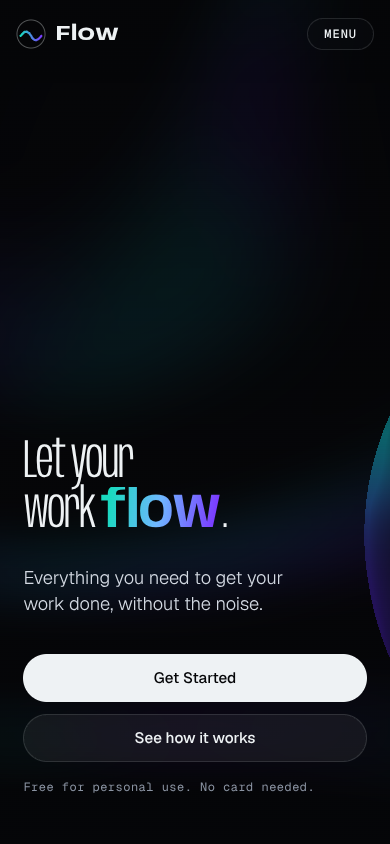
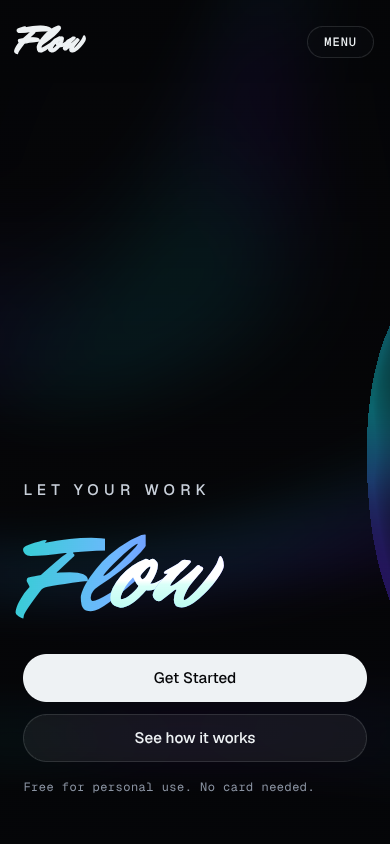
Pair tracked capitals with a large script name in the headline
After rendering six pairings, the headline is now "LET YOUR WORK" in small,
widely tracked Geist capitals over "Flow" set large in the logo's brush
script, which keeps the gradient and the pour. The gap under the capitals
scales with the script's size, since its ascenders rise about a quarter of
an em above the line; a fixed gap let the F and l collide with the caps.
Short landscape screens size the name by viewport height.

The process doc records the exploration with the six options.

Claude-Session: https://claude.ai/code/session_01Jf9pttvRY5HTnhp8tYBwzY

diff --git a/src/components/FlowHero.css b/src/components/FlowHero.css
@@ -181,16 +181,30 @@ summary:focus-visible {
   padding: 48px clamp(16px, 6vw, 96px);
 }
 
-/* "Let Your Work" is a light, tightly set sans, quiet and even, so the one
-   brush-script word, "Flow", in the logo's hand, carries all the expression.
-   The same pairing as the page: plain type everywhere, script for the name. */
+/* a two-voice headline: "Let your work" as a small line of widely tracked
+   capitals, the way Butter sets its interface type, leading into the name
+   itself, large, in the logo's brush script. The size gap does the pairing:
+   the lead is quiet and upright, the name is loud and slanted, so they never
+   compete. Sizes run on one scale: the lead is about a ninth of the name. */
 .flow-hero__title {
   margin: 0;
+  font-family: var(--font-display);
+  font-size: clamp(7.5rem, 16.5vw, 19rem);
+  font-weight: 400;
+  line-height: 0.82;
+}
+
+.flow-hero__lead {
+  /* the script's ascenders rise about a quarter of its size above its line,
+     so the gap under the lead is a quarter of the name's size, not a fixed step */
+  margin-bottom: clamp(24px, 3.3vw, 62px);
+  color: #c9d0da;
   font-family: var(--font-body);
-  font-size: clamp(3.2rem, 8.6vw, 10.5rem);
-  font-weight: 300;
+  font-size: clamp(0.95rem, 1.45vw, 1.6rem);
+  font-weight: 500;
   line-height: 1;
-  letter-spacing: -0.045em;
+  letter-spacing: 0.34em;
+  text-transform: uppercase;
 }
 
 .flow-hero__line {
@@ -206,13 +220,8 @@ summary:focus-visible {
   /* positioned, so each letter's offsetLeft is measured from the word itself */
   position: relative;
   display: inline-block;
-  margin-left: 0.04em;
   padding-right: 0.04em;
-  /* the script's small x-height needs a larger size to sit level with the sans */
   font-family: var(--font-display);
-  font-size: 1.42em;
-  font-weight: 400;
-  line-height: 0.7;
   letter-spacing: 0;
   cursor: default;
 }
@@ -257,7 +266,7 @@ summary:focus-visible {
   display: flex;
   flex-wrap: wrap;
   gap: 12px;
-  margin-top: 44px;
+  margin-top: clamp(28px, 3.4vw, 52px);
 }
 
 .flow-hero__note {
@@ -408,7 +417,12 @@ summary:focus-visible {
   }
 
   .flow-hero__title {
-    font-size: clamp(2.4rem, 17vh, 6rem);
+    font-size: clamp(4.5rem, 34vh, 9rem);
+  }
+
+  .flow-hero__lead {
+    margin-bottom: 7vh;
+    font-size: 0.85rem;
   }
 
 

diff --git a/src/components/FlowHero.tsx b/src/components/FlowHero.tsx
@@ -110,8 +110,8 @@ export function FlowHero() {
 
       <div className="flow-hero__content">
         <h1 id="flow-hero-title" className="flow-hero__title">
-          <span className="flow-hero__line">Let Your</span>
-          <span className="flow-hero__line">Work <FlowWord />.</span>
+          <span className="flow-hero__line flow-hero__lead">Let your work</span>
+          <span className="flow-hero__line flow-hero__name"><FlowWord /></span>
         </h1>
         <div className="flow-hero__ctas">
           <a className="flow-button" href="#get-started">Get Started</a>

diff --git a/docs/PROCESS.md b/docs/PROCESS.md
@@ -100,7 +100,13 @@ This took the most rounds, and most of the direction came from me.
 3. **Bouncy vs flowing.** On the logo, I called out that the drop hopping between letters felt bouncy. It now glides F → w along one even path, each letter brightening as it passes.
 4. **A better typeface for the pour.** The pour animation came back, first in *Fraunces* italic, a readable calligraphic serif.
 5. **The logo's own hand.** I asked for the headline to use the logo's typeface and letter case, giving **Let Your Work Flow.** in title case.
-6. **Final: balance.** Set entirely in script, the line felt heavy, so through a comment on the preview I asked for "Let Your Work" in something that balances "Flow". It is now a light, tightly spaced sans (*Geist*, the same face as the buttons), and only **Flow** stays in the logo's brush script, carrying the gradient and the pour. It's the same pairing Butter uses: plain type everywhere, script only for the name. I also asked to remove the body copy under the headline, so the hero is just the headline and the call to action.
+6. **Balance.** Set entirely in script, the line felt heavy, so through a comment on the preview I asked for "Let Your Work" in something that balances "Flow". It became a light sans, and only **Flow** stayed in the logo's brush script. I also had the body copy under the headline removed.
+7. **Final: an explored pairing.** I asked for a proper exploration of font pairing and spacing. Claude rendered six pairings with the script **Flow**: light sans, serif, serif italic, soft serif, extra-light sans, and small tracked capitals over a large script. The tracked capitals won.
+   - **LET YOUR WORK** is set small in widely spaced Geist capitals, the way Butter sets its interface type, and **Flow** sits large beneath it in the logo's script, carrying the gradient and the pour.
+   - The size gap does the pairing: one voice is quiet and upright, the other loud and slanted, so they never compete.
+   - The spacing follows the type rather than fixed steps. The gap under the capitals is about a quarter of the script's size, because script ascenders rise that far above their line (a fixed gap let the F and l collide with the capitals).
+
+![Six pairings explored](process/13-font-pairing-exploration.png)
 
 Lesson for my workflow: when I ask for a change to one thing (here, the typeface), I need to say explicitly what to keep (the animation). The AI otherwise tends to redo everything.
 
@@ -142,6 +148,7 @@ I noticed the background bubbles were rigid: perfect spheres whose outlines stay
 | Rigid, perfectly round bubbles | Asked for liquid bubbles that flow toward the cursor |
 | Bubbles that turned sharp when reacting to the cursor | Asked for flowing without losing smoothness |
 | A headline set entirely in script, plus body copy | Asked for a balancing typeface for "Let Your Work", and removed the body copy |
+| One pairing applied without comparison | Asked for an exploration of pairing and spacing; chose from six rendered options |
 | A static logo, then a wave effect in the original type | Pointed to Butter's melting brush wordmark as the reference, then redirected to letters connected by a drop |
 
 ## Reflection
